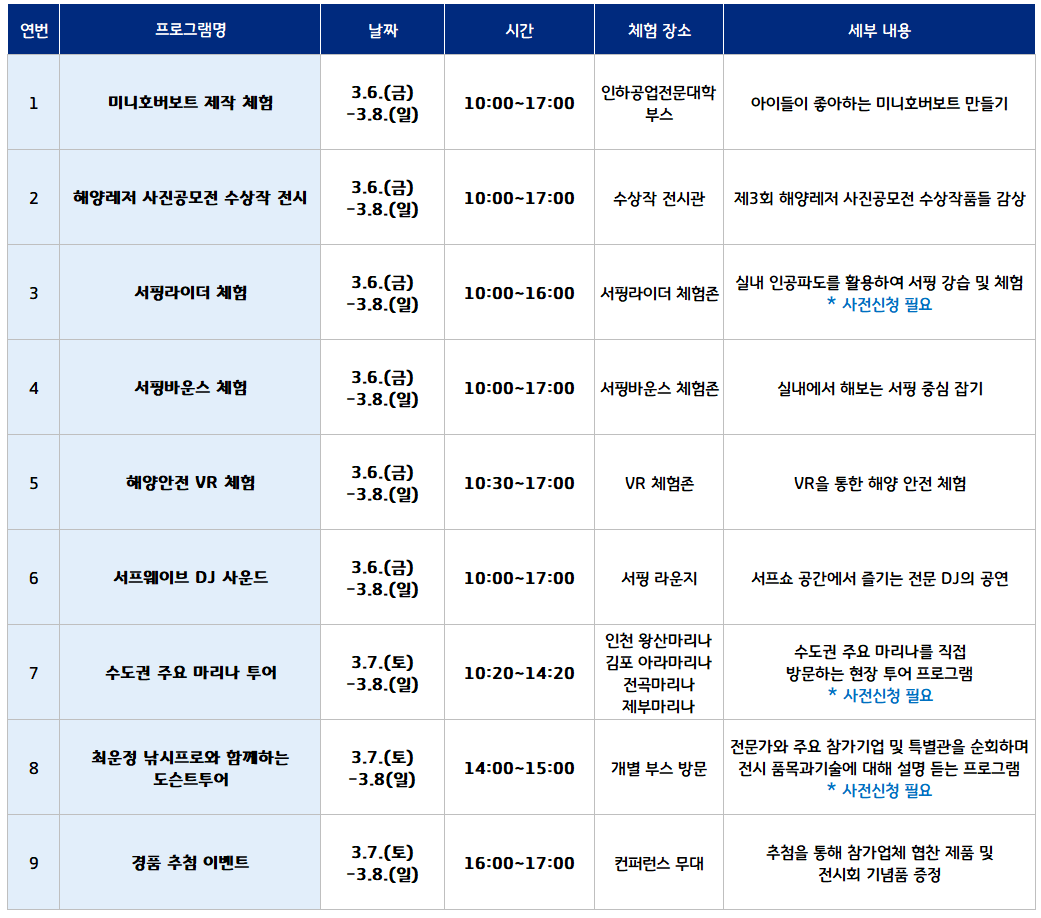
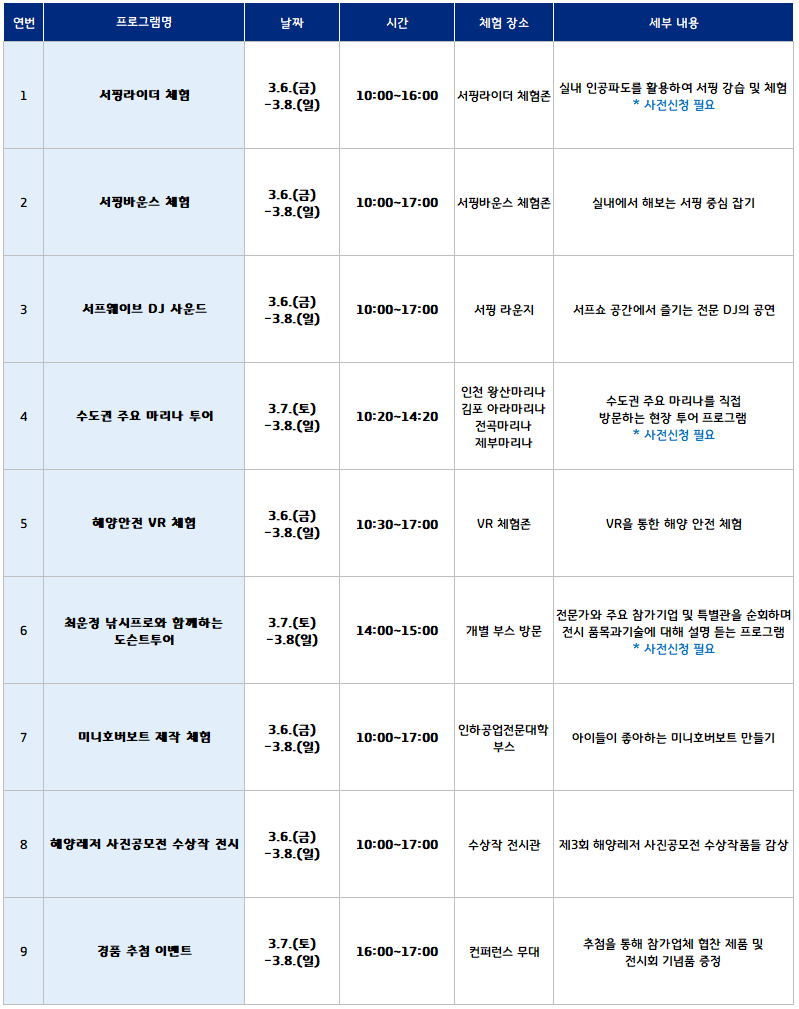
2026.02.14 : 요청사항 수정 적용

diff --git a/src/main/java/com/mtf/kibs/controller/KibsController.java b/src/main/java/com/mtf/kibs/controller/KibsController.java
@@ -325,11 +325,11 @@ public class KibsController {
         System.out.println("KibsController > guide_program");
         ModelAndView mv = new ModelAndView();
 
-        DateFormat dateFormat = new SimpleDateFormat("yyyyMMddHHmm");
+        /*DateFormat dateFormat = new SimpleDateFormat("yyyyMMddHHmm");
         String today = dateFormat.format(new Date());
         if (Long.parseLong(today) > Long.parseLong("202602130859")) {
             mv.addObject("mode", "open");
-        }
+        }*/
 
         mv.setViewName("/guide/program");
         return mv;
@@ -2566,11 +2566,11 @@ public class KibsController {
         System.out.println("KibsController > eng_guide_program");
         ModelAndView mv = new ModelAndView();
 
-        DateFormat dateFormat = new SimpleDateFormat("yyyyMMddHHmm");
+        /*DateFormat dateFormat = new SimpleDateFormat("yyyyMMddHHmm");
         String today = dateFormat.format(new Date());
         if (Long.parseLong(today) > Long.parseLong("202602130859")) {
             mv.addObject("mode", "open");
-        }
+        }*/
 
         mv.setViewName("/eng/guide/program");
         return mv;
